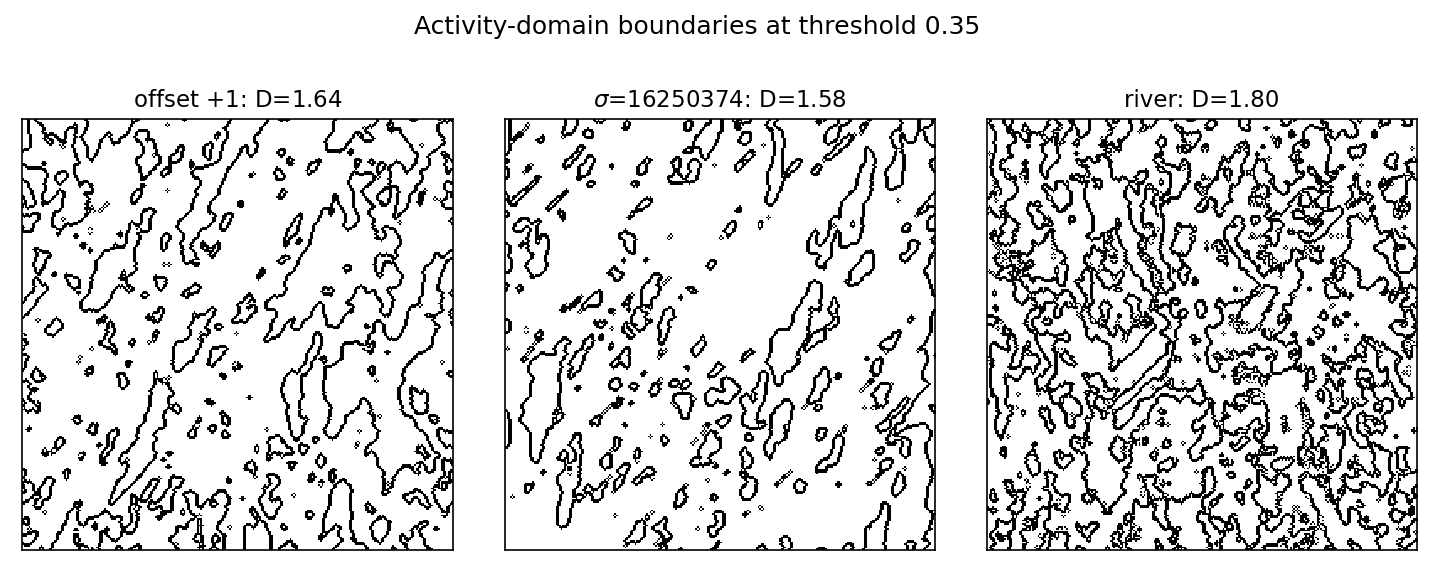
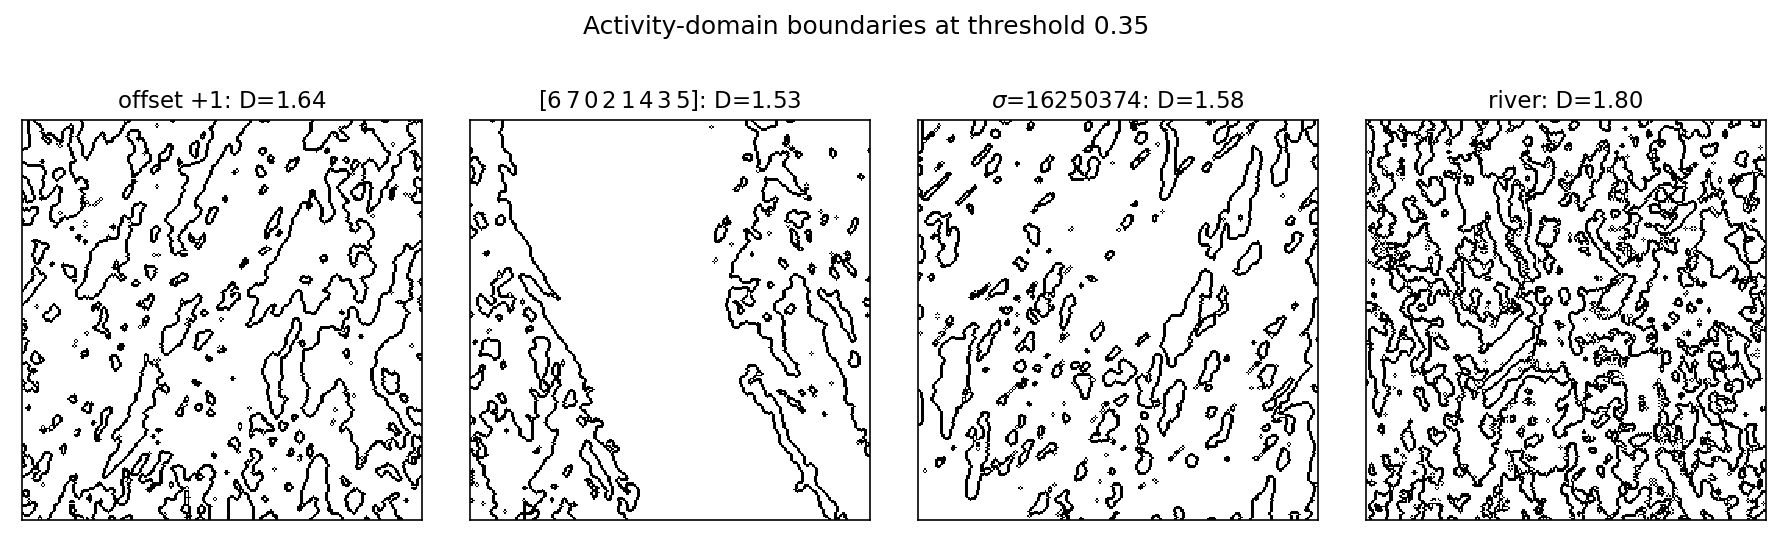
draft4: Fig 14 wall chart now includes the two-4-cycle (D=1.53, sparse clean walls)
The [6 7 0 2 1 4 3 5] operator carries sparse, clean activity-domain walls bounding
large single-activity regions (D~1.53), matching its coherent domains in the tint --
qualitatively different from the dense walls of offset+1 (1.64) and river (1.80).
Caption updated to 4 operators; offset+2->offset+1.

Changed region(s): [[0.0, 0.1476, 1.0, 0.9742], [0.2765, 0.0295, 0.7067, 0.059]]

diff --git a/holes/tech-notes/paper/draft4.tex b/holes/tech-notes/paper/draft4.tex
@@ -1049,14 +1049,18 @@ orders the regimes but does not by itself separate complex from chaotic.}
 \includegraphics[width=\linewidth]{figures/eoc_interface.png}
 \caption{\textbf{Activity-domain walls.} The boundary (black) between low- and
 high-activity regions, traced through the $1{+}1$-dimensional spacetime diagram at
-$L = 256$. offset $+2$ and $\sigma = 16250374$ carry fractal-like boundaries of
-comparable interface fraction and dimension ($D \approx 1.5$--$1.6$); the
-phenotype-coupled river carries a denser one ($D \approx 1.71$, an unmatched
-comparison as it couples phenotype). The dimension is stable across
-$L = 128$--$768$ (offset $+2$ and $\sigma \approx 1.5$, river $\approx 1.7$; box
-sizes $2$--$64$). Collapsed operators (e.g.\ offset $+4$) carry none. These walls
-are also where the rule field is rewritten fastest (Discussion). Exploratory: a
-handful of seeds, fixed-boundary variant.}
+$L = 256$. All the sustaining operators carry fractal-like boundaries
+($D \approx 1.5$--$1.8$), but of visibly different density: offset $+1$ (the
+8-cycle) and $\sigma = 16250374$ carry dense walls ($D \approx 1.6$), the
+phenotype-coupled river the densest ($D \approx 1.80$, an unmatched comparison as
+it couples phenotype), while the two-4-cycle $[6\,7\,0\,2\,1\,4\,3\,5]$---the
+standard-order form of draft3's offset$+2$ exemplar---carries \emph{sparse, clean}
+walls bounding large single-activity regions ($D \approx 1.53$), matching its
+coherent domains in Figure~\ref{fig:tint}. The dimension is stable across
+$L = 128$--$768$ (box sizes $2$--$64$); collapsed operators (e.g.\ offset $+4$)
+carry none. These walls are also where the rule field is rewritten fastest
+(Emp.~find.~\ref{find:walls}). Exploratory: a handful of seeds, fixed-boundary
+variant.}
 \label{fig:interface}
 \end{figure}
 
